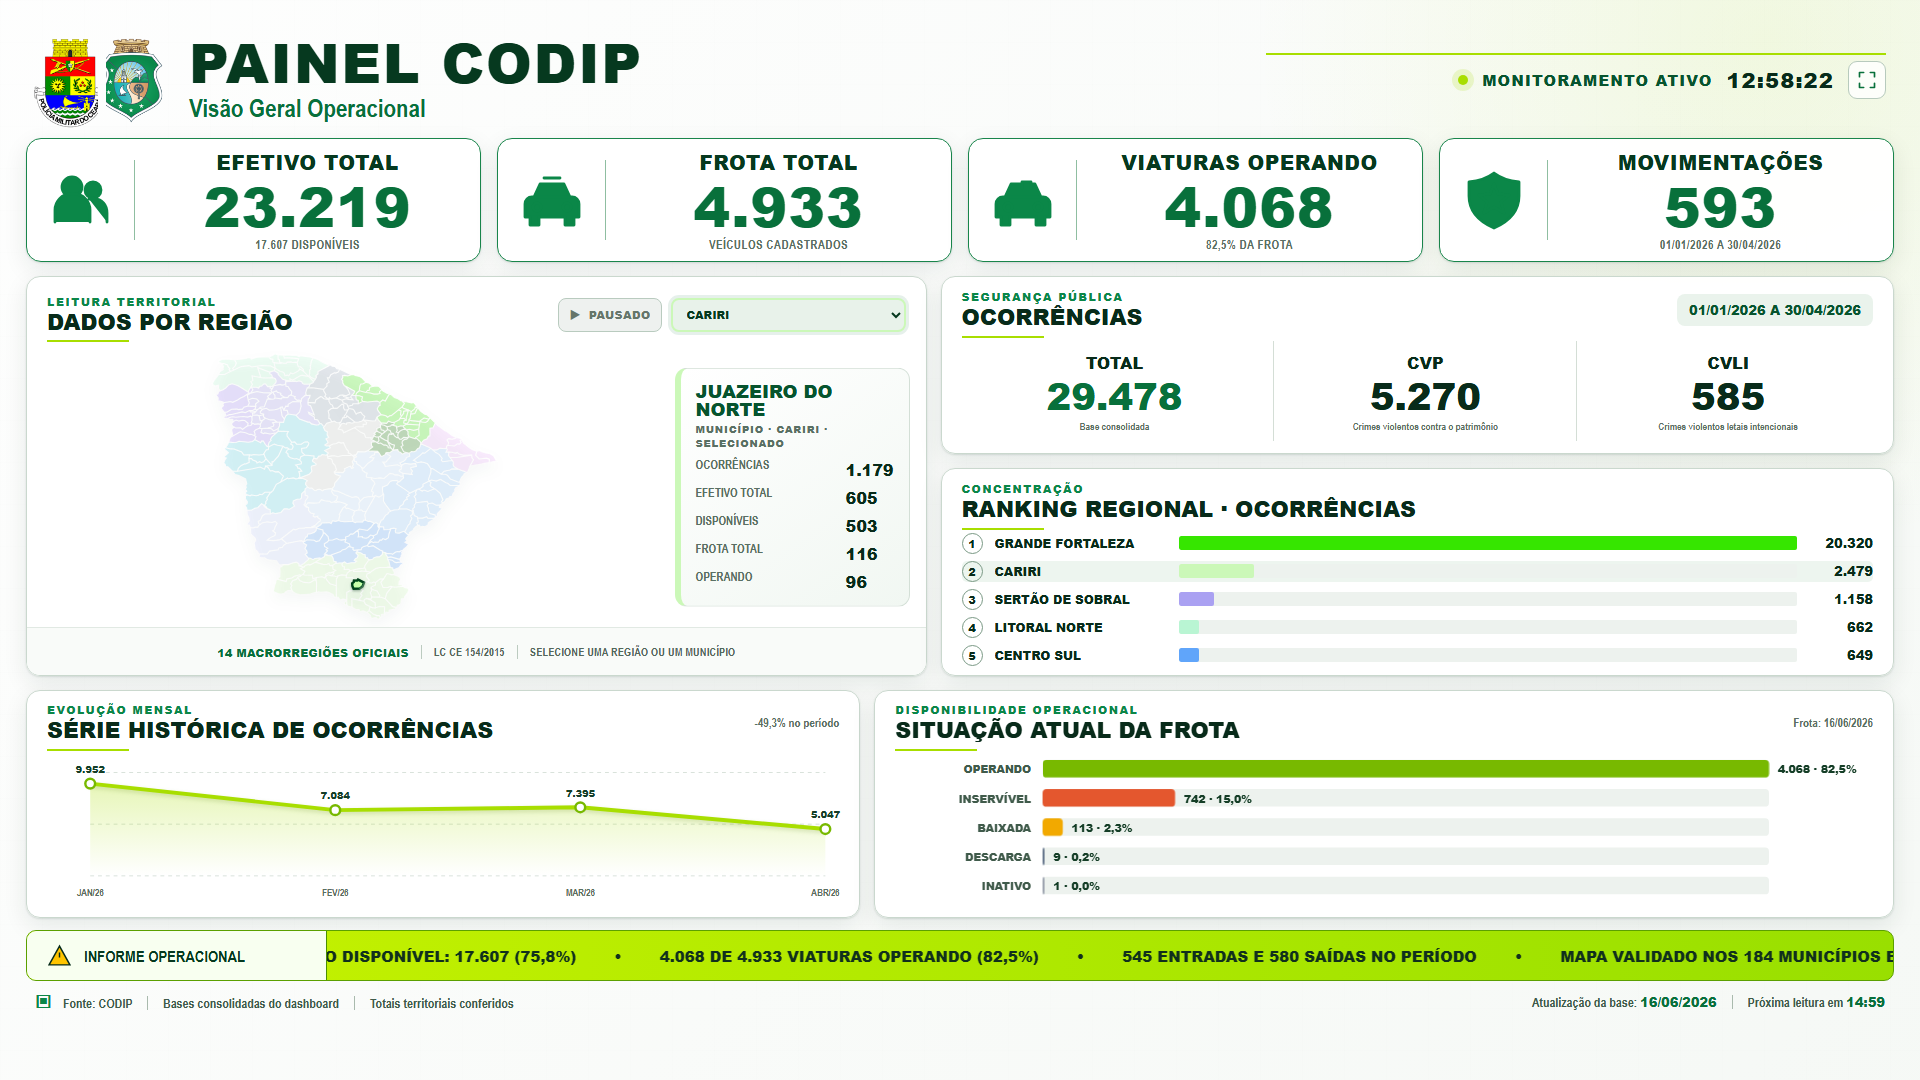
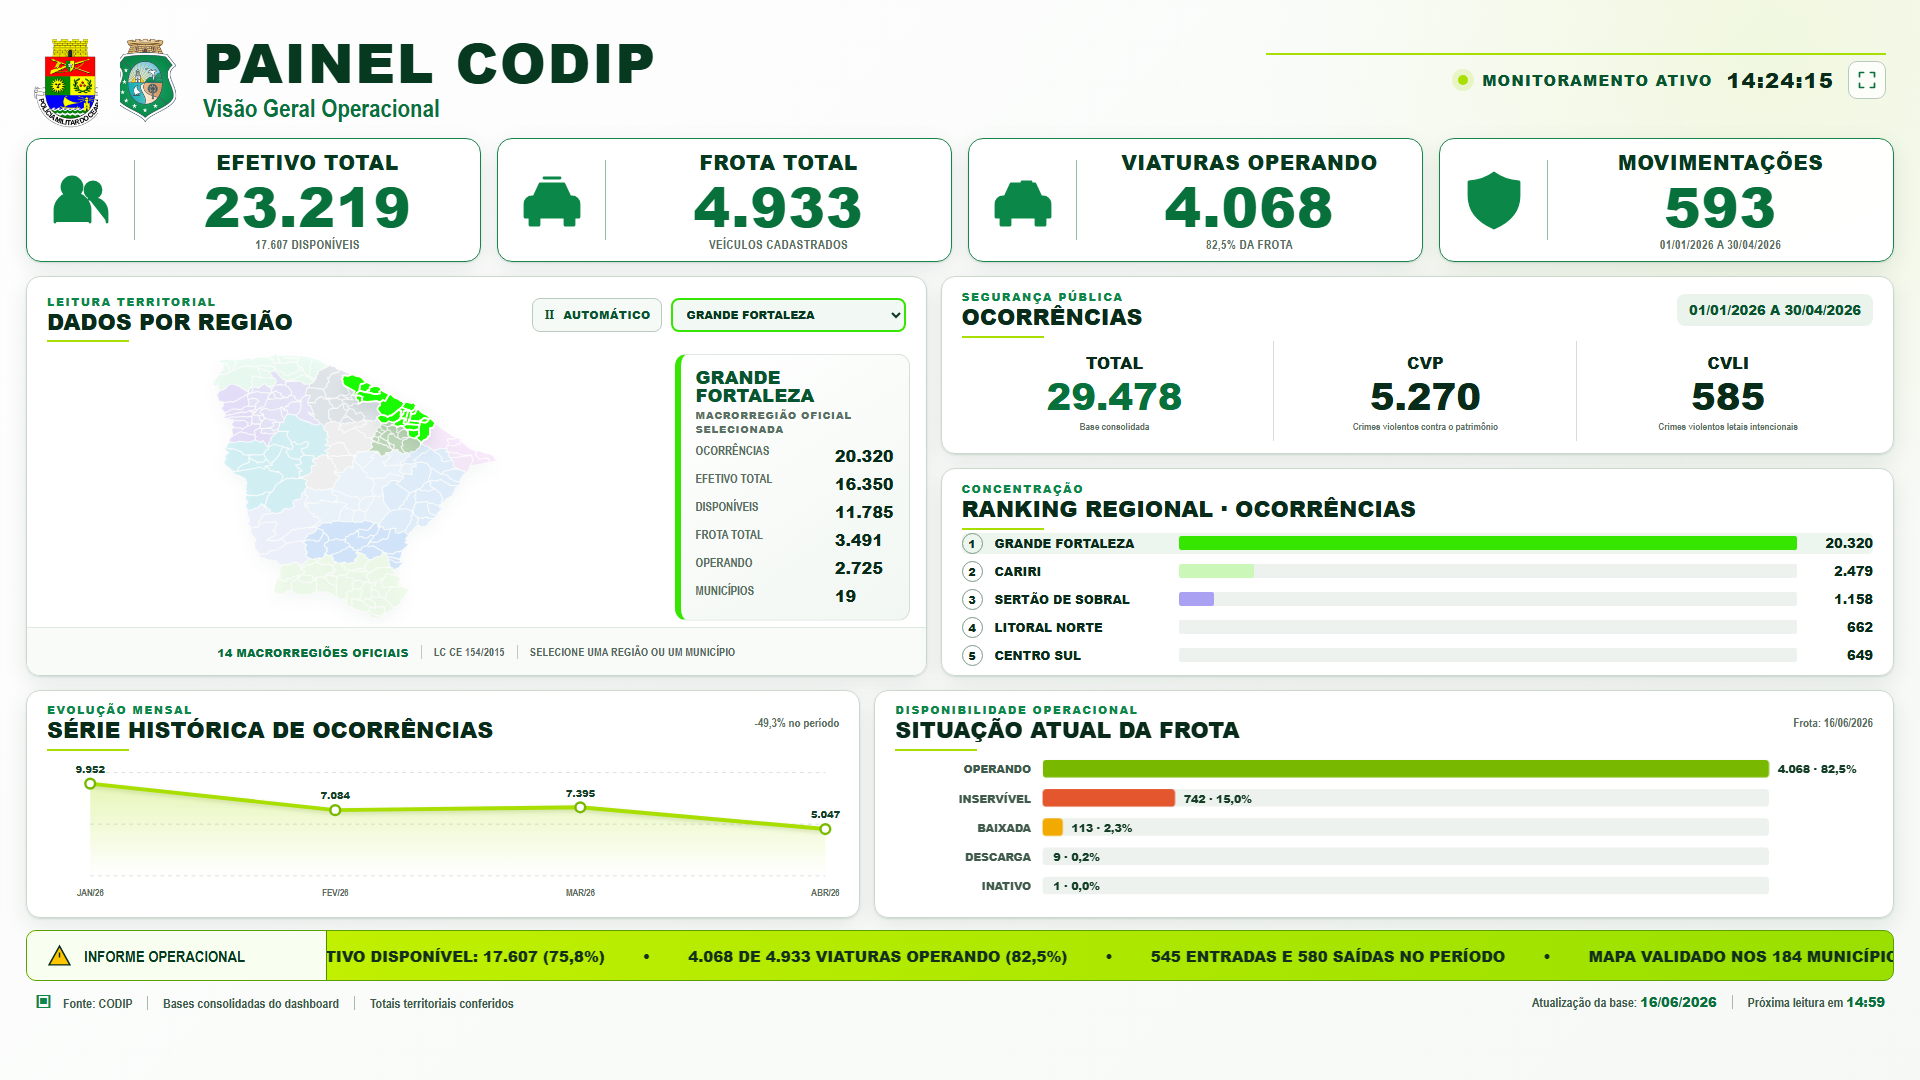
Afasta os brasões do cabeçalho

diff --git a/styles.css b/styles.css
@@ -47,7 +47,7 @@ button, select, svg text { font-family: var(--font); }
 
 .topbar { position: relative; height: 116px; display: flex; align-items: center; justify-content: space-between; padding: 0 8px 4px; }
 .identity { display: flex; align-items: center; gap: 22px; }
-.official-logos { height: 110px; display: flex; align-items: center; gap: 8px; }
+.official-logos { height: 110px; display: flex; align-items: center; gap: 22px; }
 .logo-crop { position: relative; display: block; height: 99px; overflow: hidden; }
 .logo-crop img { position: absolute; height: auto; max-width: none; }
 .logo-pmce { width: 64px; }
